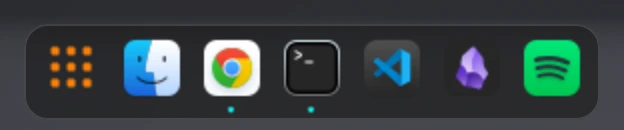
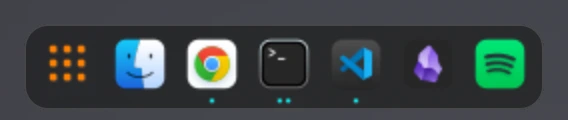
Warn against omarchy theme install and refresh the dock screenshot (#3)

diff --git a/README.es.md b/README.es.md
@@ -33,6 +33,9 @@ Las capas 1, 2, 4, 5 y 6 van con el tema: al cambiar a otro tema de Omarchy se a
 - `yay` para los paquetes de AUR de la capa 4 (Omarchy ya lo trae).
 - Para la capa 6, el paquete `omarchy-hyprland-titlebars`, que forma parte de la instalación base de Omarchy.
 
+> [!IMPORTANT]
+> No lo instales con `omarchy theme install`. Ese comando trata todo el repositorio como la carpeta de un tema, pero el tema está en `themes/macos/`, y el dock, los semáforos y las fuentes necesitan los pasos de abajo.
+
 Clona el repositorio y ejecuta todos los comandos desde su raíz, porque los enlaces apuntan a `$PWD`:
 
 ```bash

diff --git a/README.md b/README.md
@@ -33,6 +33,9 @@ Layers 1, 2, 4, 5 and 6 follow the theme: switching to another Omarchy theme tur
 - `yay` for the AUR packages in layer 4 (Omarchy ships it).
 - For layer 6, the `omarchy-hyprland-titlebars` package, which is part of Omarchy's base install.
 
+> [!IMPORTANT]
+> Do not install this with `omarchy theme install`. That command treats the whole repository as one theme folder, but the theme lives in `themes/macos/`, and the dock, traffic lights and fonts need the steps below.
+
 Clone the repository and run every command below from its root, because the links point at `$PWD`:
 
 ```bash
